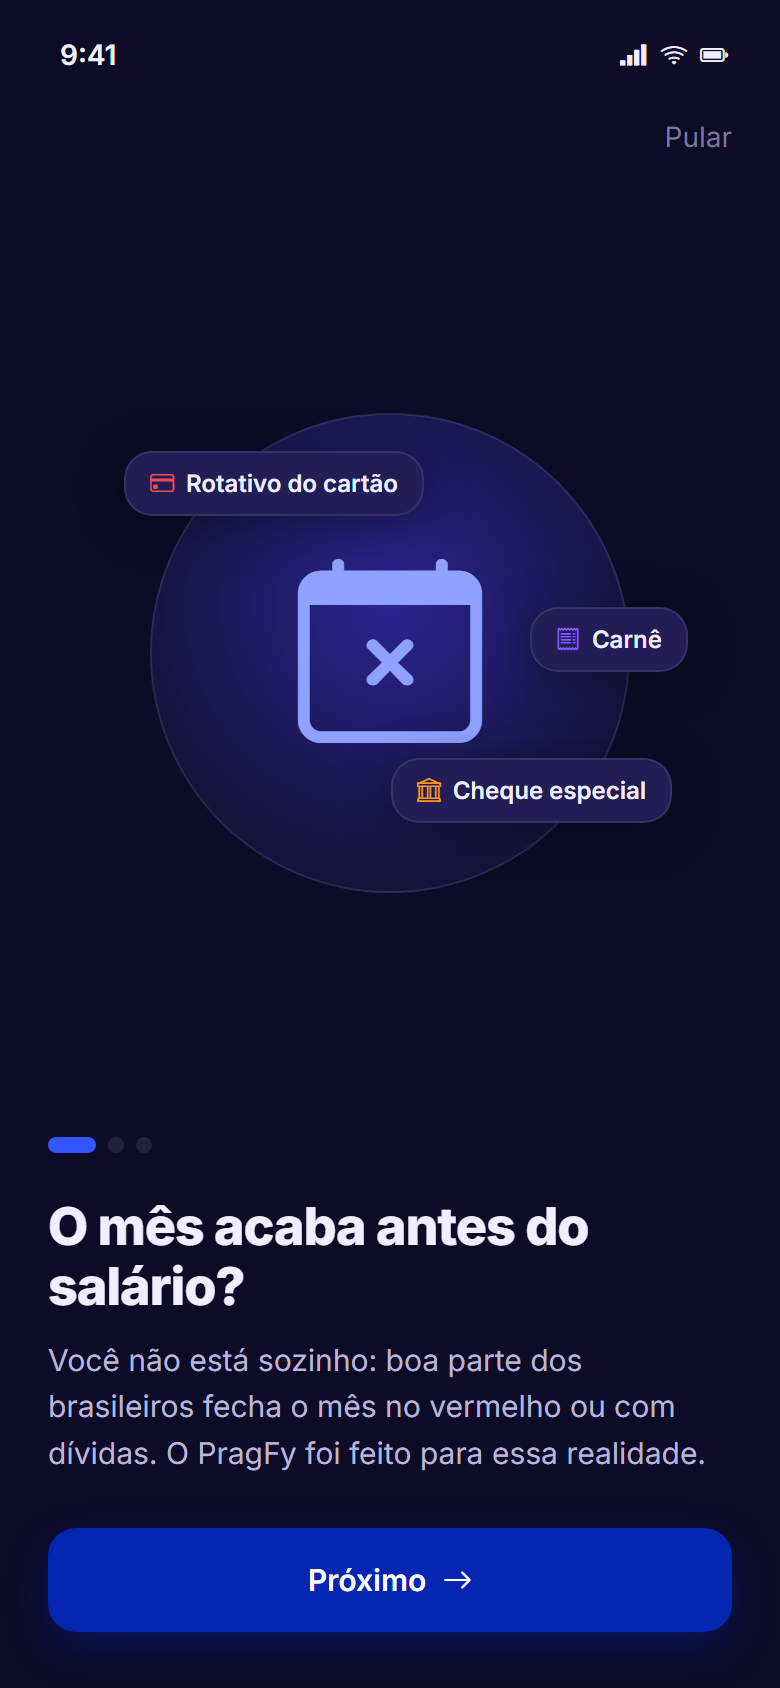
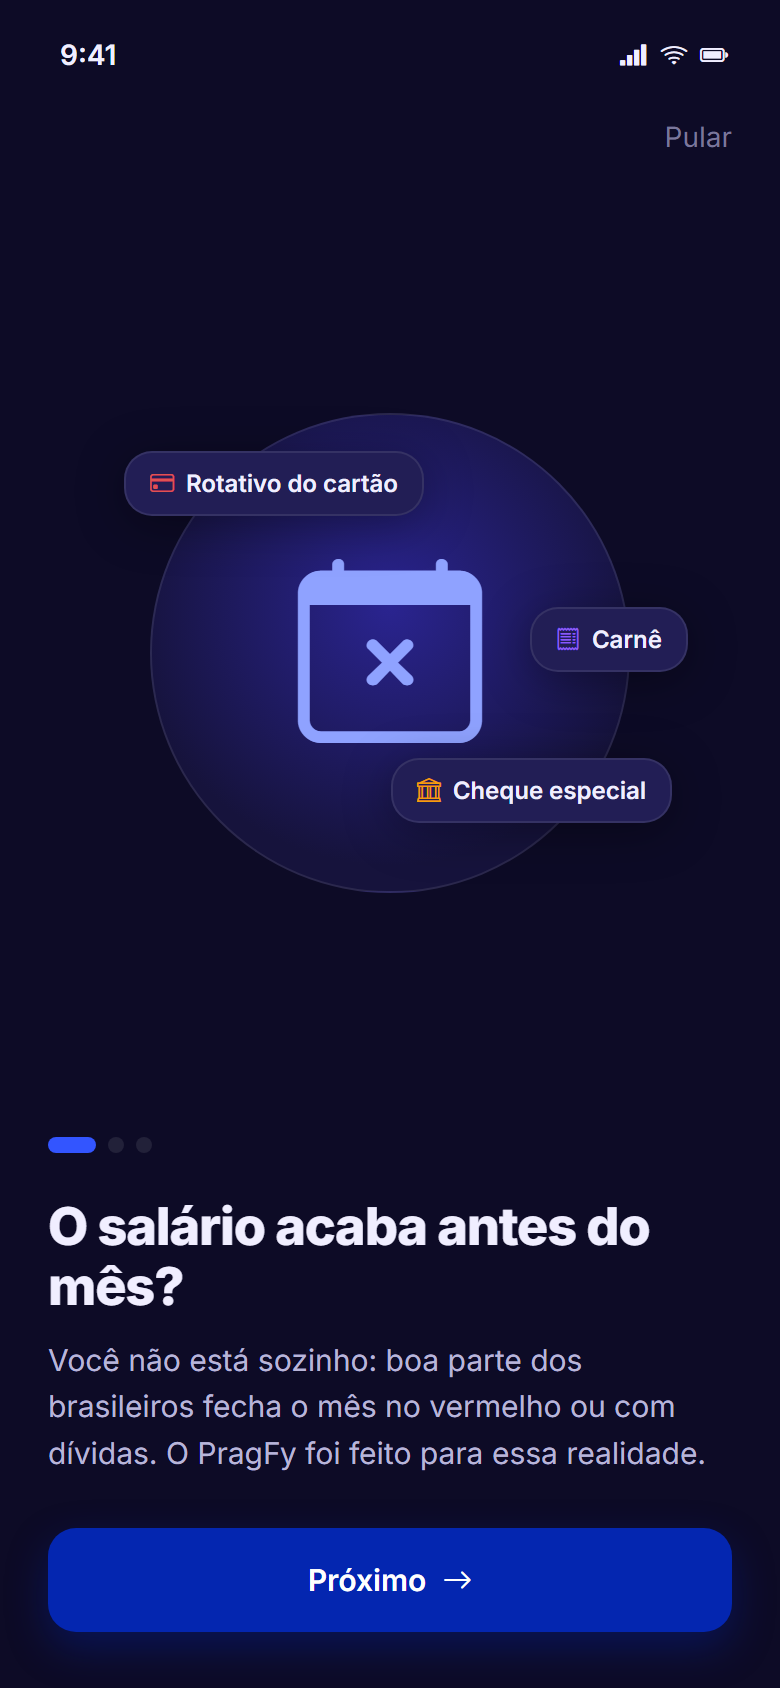
fix: corrige "o salário acaba antes do mês" e revisa textos do PDF
O título do onboarding dizia o contrário da expressão. Refaz o print
e ajusta textos do PDF que generalizavam demais ou estavam ambíguos.

Changed region(s): [[0.0615, 0.7085, 0.8308, 0.7701]]

diff --git a/js/screens.js b/js/screens.js
@@ -166,7 +166,7 @@ const Screens = {
   onboarding(s, p) {
     const n = Math.min(Math.max(parseInt(p[0] || '1', 10), 1), 3);
     const slides = [
-      { icon: 'bi-calendar-x', title: 'O mês acaba antes do salário?',
+      { icon: 'bi-calendar-x', title: 'O salário acaba antes do mês?',
         text: 'Você não está sozinho: boa parte dos brasileiros fecha o mês no vermelho ou com dívidas. O PragFy foi feito para essa realidade.',
         floats: [['top:18px;left:-14px', 'bi-credit-card', '#e05252', 'Rotativo do cartão'], ['bottom:34px;right:-22px', 'bi-bank', '#f59e0b', 'Cheque especial'], ['top:96px;right:-30px', 'bi-receipt', '#8b5cf6', 'Carnê']] },
       { icon: 'bi-bank2', title: 'Conecte seus bancos com o Open Finance',

diff --git a/ferramentas/fill_template.py b/ferramentas/fill_template.py
@@ -23,14 +23,15 @@ SECOES = [
     ('O problema', [
         'Segundo a CNC (Peic, julho de 2026), 82% das famílias brasileiras têm dívidas, e o cartão de crédito aparece em 85% '
         'delas; entre as que ganham até 3 salários mínimos, 38,5% estão com contas em atraso. A Serasa contou 84,2 milhões de '
-        'inadimplentes em setembro de 2026, mais da metade dos adultos. Essas pessoas pagam juros de cerca de 13% ao mês no '
-        'rotativo, pagam só o mínimo e não sabem para onde vai o próprio dinheiro. Os apps de finanças, porém, partem de quem '
-        'já tem sobra e sugerem investir para quem ainda paga mais de juros do que qualquer aplicação renderia.',
+        'inadimplentes em setembro de 2026, mais da metade dos adultos. Para muitos, o salário acaba antes do mês: o cartão e o cheque especial cobrem a diferença, '
+        'o rotativo cobra cerca de 13% ao mês e, pagando só o mínimo, a dívida não para de crescer. A maioria dos apps de '
+        'finanças, porém, parte de quem já tem sobra e fala em investir com quem ainda paga mais de juros do que qualquer '
+        'aplicação renderia.',
     ]),
     ('A solução', [
-        '• Open Finance: saldos, gastos, receitas e as dívidas reais, com seus juros, entram sozinhos. Toda movimentação precisa '
+        '• Open Finance: saldos, gastos, receitas e as dívidas reais, com seus juros, entram automaticamente. Toda movimentação precisa '
         'de categoria; o que chega sem uma vira uma notificação para o usuário classificar, com a sugestão da IA.',
-        '• IA: interpreta o diagnóstico e o relato da pessoa com as próprias palavras, analisa os gastos e mostra onde dá para '
+        '• IA: interpreta o diagnóstico e o relato que a pessoa escreve com as próprias palavras, analisa os gastos e mostra onde dá para '
         'economizar sem cortar o essencial. Todo mês relê os dados e refina o plano.',
         '• Plano por fase: na fase 1, sair do vermelho, o app diz claramente que não é hora de investir e simula a quitação mês '
         'a mês; na fase 2, criar um colchão, monta a reserva em metas; na fase 3, investir, mostra a proporção da carteira por classe.',
@@ -49,19 +50,19 @@ SECOES = [
 ]
 
 SHOTS = [
-    ('01-onboarding-problema', 'Onboarding: o problema', 'Abre pela dor da maioria: o mês que acaba antes do salário, com cartão, carnê e cheque especial. Quem está no vermelho se reconhece no app.'),
-    ('02-onboarding-fases', 'Onboarding: as fases', 'Apresenta a proposta: um plano para a fase de cada um. Sair das dívidas vem antes do colchão, e investir só entra quando sobra dinheiro.'),
+    ('01-onboarding-problema', 'Onboarding: o problema', 'Abre pela dor da maioria: o salário que acaba antes do mês, coberto por cartão, carnê e cheque especial. Quem está no vermelho se reconhece no app.'),
+    ('02-onboarding-fases', 'Onboarding: as fases', 'Apresenta a proposta: um plano para a fase de cada um. Sair das dívidas vem antes do colchão, e investir só entra depois, com sobra e reserva.'),
     ('03-consentimento', 'Open Finance', 'Consentimento no padrão do Open Finance: o usuário escolhe o que compartilhar e por quanto tempo. As operações de crédito revelam as dívidas e os juros.'),
-    ('04-maria-diag-dividas', 'Maria: dívidas encontradas', 'As dívidas chegam pelo Open Finance com os juros ao mês; as caras (rotativo e cheque especial) ficam marcadas. Dá para somar dívidas informais.'),
+    ('04-maria-diag-dividas', 'Maria: dívidas encontradas', 'As dívidas chegam pelo Open Finance com os juros ao mês; as caras (rotativo e cheque especial) ficam marcadas. Dá para somar as que o banco não mostra.'),
     ('05-maria-texto-livre', 'Maria: com as suas palavras', 'Campo livre para contar o que os números não mostram. Maria diz que paga só o mínimo e às vezes aposta para tentar sair das dívidas.'),
     ('06-maria-leitura-ia', 'Maria: leitura da IA', 'A IA cruza números e relato e explica, sem julgamento, por que a dívida não diminui. A conclusão é direta: agora não é hora de investir.'),
     ('07-maria-inicio', 'Maria: início', 'Faltaram R$ 173 no mês, cobertos pelo cheque especial, e R$ 454 foram só de juros. Mostra a fase, o próximo passo e um Pix para classificar.'),
     ('08-maria-classificar', 'A classificar', 'Toda receita e todo gasto precisam de categoria. O que chega sem categoria vira notificação, com a sugestão da IA e a opção de lembrar para as próximas.'),
-    ('09-maria-economias', 'Maria: onde foi o dinheiro', 'Gastos separados em essencial (não é cortado), dá para ajustar, custo do dinheiro, risco (apostas) e dívidas. A IA soma R$ 325/mês de economia.'),
+    ('09-maria-economias', 'Maria: onde foi o dinheiro', 'Gastos separados em essencial (não é cortado), dá para ajustar, custo do dinheiro, risco (apostas) e dívidas. As mudanças escolhidas somam R$ 325/mês.'),
     ('10-maria-economias-cards', 'Maria: sugestões da IA', 'Cada sugestão traz valor atual, meta e dificuldade; o usuário escolhe o que tentar. Apostas vêm sem julgamento, com autoexclusão e apoio do SUS.'),
     ('11-maria-plano', 'Maria: plano de dívidas', 'Simulação mês a mês até zerar as dívidas, refeita com as economias escolhidas. Dá para usar o 13º e escolher: maior juros ou menor dívida primeiro.'),
     ('12-maria-plano-passos', 'Maria: ordem e passos', 'A ordem de pagamento com a data prevista de quitação de cada dívida, os 3 passos (parar, renegociar e quitar) e o que acontece pagando só o mínimo.'),
-    ('13-maria-negociar', 'Renegociar o cartão', 'Guia prático: quanto cabe no bolso, onde negociar, o que pedir (e o CET), direitos do consumidor, mensagem pronta e alerta contra golpes.'),
+    ('13-maria-negociar', 'Renegociar o cartão', 'Guia prático: quanto cabe no bolso, onde negociar, o que pedir e perguntar, os direitos do consumidor, uma mensagem pronta e o alerta contra golpes.'),
     ('14-dividas-e-credito', 'Aprender: dívidas e crédito', 'Cada tipo de dívida em linguagem simples: juros típicos, como funciona, quando pode fazer sentido e as regras, como o teto de juros do rotativo.'),
     ('15-maria-gastos', 'Maria: gastos', 'Extrato único das contas conectadas, com a categoria e o banco de cada lançamento, os totais do mês e o aviso do que falta classificar.'),
     ('16-maria-analises', 'Maria: análises mensais', 'Todo mês a IA relê os dados, registra o que mudou e ajusta o plano. Também avisa o que vai conferir no mês seguinte, como os cortes e o 13º.'),
@@ -69,7 +70,7 @@ SHOTS = [
     ('18-ana-leitura-ia', 'Ana: leitura da IA', 'A IA reconhece o que já está bom (cartão em dia) e explica o risco: sem reserva, qualquer imprevisto vira dívida. A prioridade passa a ser o colchão.'),
     ('19-ana-economias', 'Ana: sugestões da IA', 'Ajustes realistas, como menos delivery e menos streamings. O lazer não é cortado: a sugestão é combinar um teto, para o plano caber na vida real.'),
     ('20-ana-plano-reserva', 'Ana: plano de reserva', 'Reserva em metas: R$ 500, 1 mês e 3 meses de gastos. O prazo de cada meta sai do que sobra somado às economias escolhidas.'),
-    ('21-diego-carteira', 'Diego: carteira', 'Só na fase 3 o app fala de investimento. A sobra do mês é dividida entre completar a reserva de emergência e a carteira de longo prazo.'),
+    ('21-diego-carteira', 'Diego: carteira', 'Só na fase 3 o app monta a carteira. A sobra do mês é dividida entre completar a reserva de emergência e investir no longo prazo.'),
     ('22-diego-carteira-classes', 'Diego: proporções', 'A carteira mostra só a proporção por classe, a partir do perfil e dos objetivos, e explica cada ajuste feito pela IA. Nenhum produto é indicado.'),
     ('23-diego-fiis-opcoes', 'Aprender: FIIs', 'Cada classe traz suas opções explicadas: como rende, risco, liquidez e imposto. Ex.: um FII de desenvolvimento pode passar a obra sem pagar nada.'),
     ('24-diego-fiis-ia', 'Pergunte à IA', 'Perguntas sugeridas e campo livre para tirar dúvidas sobre a classe. A IA explica conceitos e riscos, mas não recomenda produtos.'),
